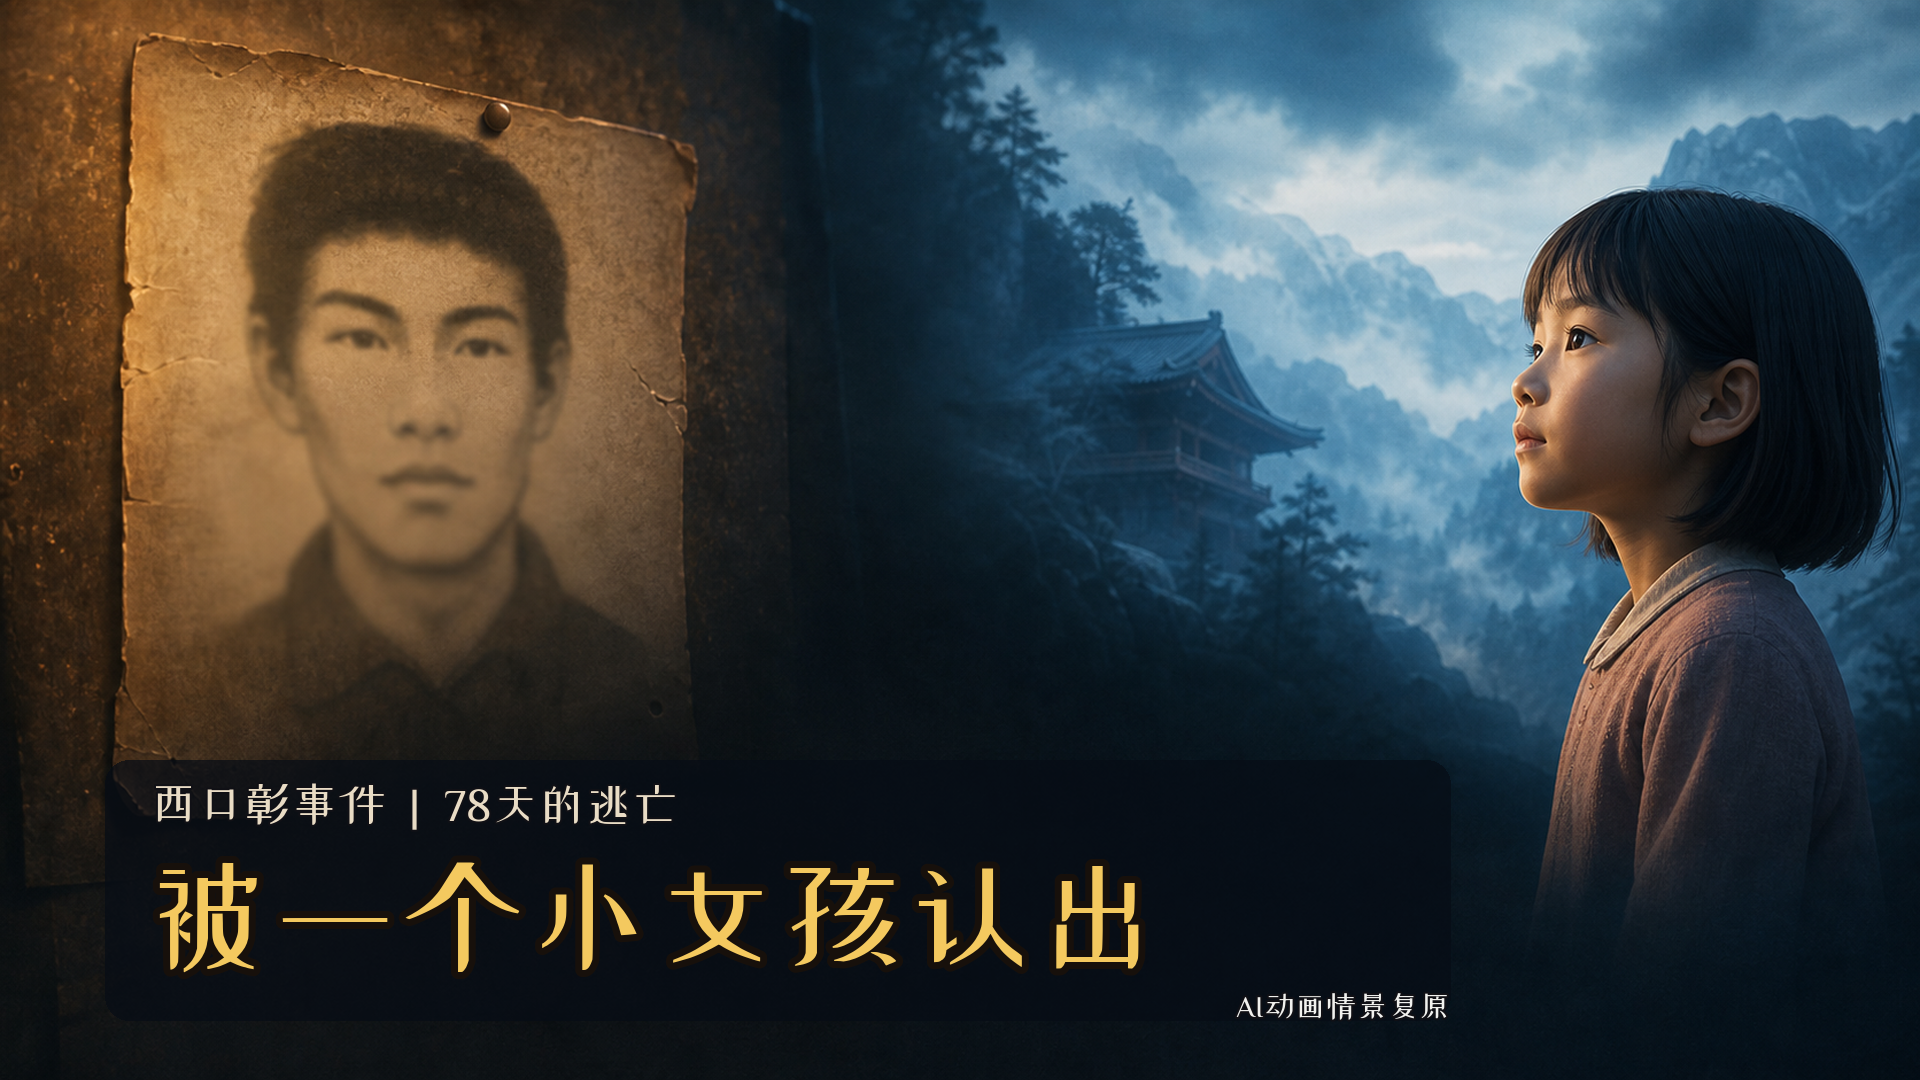
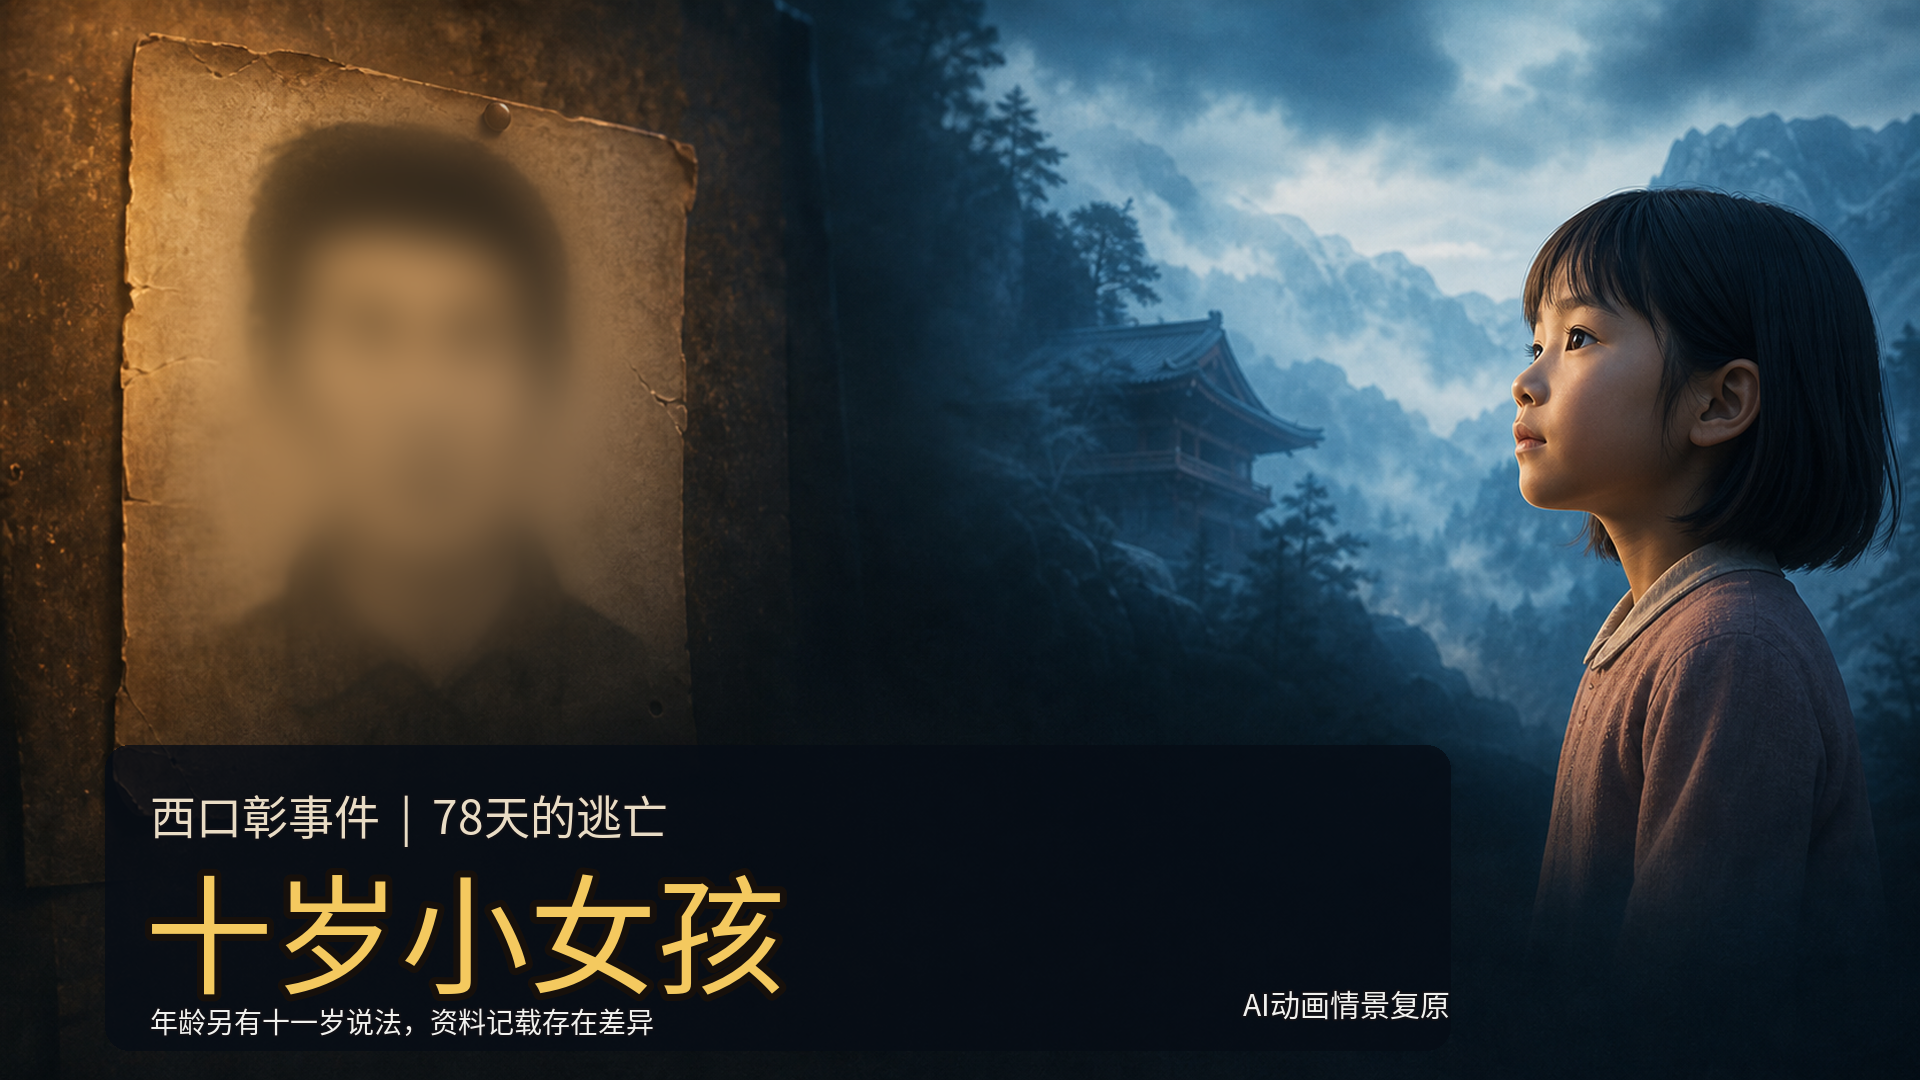
Match requested cover and title with age uncertainty note

diff --git a/production/nishiguchi1963/build_story.py b/production/nishiguchi1963/build_story.py
@@ -58,7 +58,7 @@ for i,(dur,narration,roles,prompt) in enumerate(rows):
 chapters=[]
 for j,(a,b,title) in enumerate(chap_ranges,1):
  chapters.append(dict(id=f'N{j:02}',title=title,start=shots[a]['start'],duration=sum(x['duration'] for x in shots[a:b]),shot_ids=[x['id'] for x in shots[a:b]],text=''.join(x['narration'] for x in shots[a:b])))
-project=dict(title='西口彰事件：78天的逃亡',film_name='西口彰事件_78天的逃亡_三分钟.mp4',target_duration=180,width=1920,height=1080,fps=24,model='agnes-video-2.5-flash',source_size='720P',branch='arena/eef99fcf-desktop-tutorial',style_prefix=STYLE,style_rumor_prefix=STYLE,negative_prompt=NEGATIVE,characters=ROLES,character_seeds={'nishiguchi':19631018,'priest':19640102,'girl':19640103,'family':19640104,'police':19631019,'local':19631020},shots=shots,chapters=chapters,narration_spec={'voice_id':'voice-00','max_speedup_factor':1.55},reference_images=[{'file':'reference/nishiguchi.png'},{'file':'reference/temple.png'},{'file':'reference/characters.png'}],presentation={'highlight_keywords':['七十八天','五个人','全国通缉','一双鞋','八十万日元','五人','女孩','一月三日','死刑'],'title':'他骗过了全日本，却被一个小学生一眼认出','hashtags':'#真实事件 #西口彰 #日本 #昭和 #悬疑 #3D动画 #复仇在我'})
+project=dict(title='西口彰事件：78天的逃亡',film_name='西口彰事件_78天的逃亡_三分钟.mp4',target_duration=180,width=1920,height=1080,fps=24,model='agnes-video-2.5-flash',source_size='720P',branch='arena/eef99fcf-desktop-tutorial',style_prefix=STYLE,style_rumor_prefix=STYLE,negative_prompt=NEGATIVE,characters=ROLES,character_seeds={'nishiguchi':19631018,'priest':19640102,'girl':19640103,'family':19640104,'police':19631019,'local':19631020},shots=shots,chapters=chapters,narration_spec={'voice_id':'voice-00','max_speedup_factor':1.55},reference_images=[{'file':'reference/nishiguchi.png'},{'file':'reference/temple.png'},{'file':'reference/characters.png'}],presentation={'highlight_keywords':['七十八天','五个人','全国通缉','一双鞋','八十万日元','五人','女孩','一月三日','死刑'],'title':'他骗过了全日本,却被一个十岁的小女孩一眼认出','hashtags':'#真实事件 #西口彰 #日本 #昭和 #悬疑 #3D动画 #复仇在我'})
 assert cursor==180 and len(shots)==30
 (HERE/'story.json').write_text(json.dumps(project,ensure_ascii=False,indent=2)+'\n',encoding='utf-8')
 lines=['# 西口彰事件：78天的逃亡','', 'AI动画情景复原，非真实影像。详细事实边界见 README。','', '| 镜头 | 时间 | 秒 | 旁白 | 画面提示 |','|---|---:|---:|---|---|']

diff --git a/production/nishiguchi1963/make_cover.py b/production/nishiguchi1963/make_cover.py
@@ -2,7 +2,7 @@
 """Typography over the project’s generated cover artwork; never a video substitute."""
 import argparse
 from pathlib import Path
-from PIL import Image, ImageDraw, ImageFont, ImageOps
+from PIL import Image, ImageDraw, ImageFilter, ImageFont, ImageOps
 
 HERE = Path(__file__).resolve().parent
 
@@ -10,17 +10,24 @@ def make_cover(background: Path, font_path: Path, output: Path):
     if not font_path.is_file():
         raise RuntimeError('A CJK font is required: pass --font (e.g. ZCOOL XiaoWei, SIL OFL).')
     image = ImageOps.fit(Image.open(background).convert('RGB'), (1920,1080), method=Image.Resampling.LANCZOS)
+    # The wanted portrait is a fictional illustration, intentionally defocused.
+    mask = Image.new('L', image.size, 0)
+    ImageDraw.Draw(mask).ellipse((210, 100, 625, 675), fill=255)
+    mask = mask.filter(ImageFilter.GaussianBlur(35))
+    image = Image.composite(image.filter(ImageFilter.GaussianBlur(22)), image, mask)
     overlay = Image.new('RGBA', image.size)
     d=ImageDraw.Draw(overlay)
     # Subtle ink band keeps the type legible without concealing either main face.
-    d.rounded_rectangle((105,760,1450,1020), radius=24, fill=(6,12,21,180))
+    d.rounded_rectangle((105,745,1450,1050), radius=24, fill=(6,12,21,200))
     image=Image.alpha_composite(image.convert('RGBA'),overlay)
     d=ImageDraw.Draw(image)
     small=ImageFont.truetype(str(font_path),46)
-    title=ImageFont.truetype(str(font_path),124)
+    title=ImageFont.truetype(str(font_path),128)
     foot=ImageFont.truetype(str(font_path),30)
+    note=ImageFont.truetype(str(font_path),28)
     d.text((150,780),'西口彰事件  |  78天的逃亡',font=small,fill='#e9dcc5',stroke_width=2,stroke_fill='#101015')
-    d.text((145,852),'被一个小女孩认出',font=title,fill='#f4c95f',stroke_width=7,stroke_fill='#17100b')
+    d.text((145,835),'十岁小女孩',font=title,fill='#f4c95f',stroke_width=7,stroke_fill='#17100b')
+    d.text((150,1000),'年龄另有十一岁说法，资料记载存在差异',font=note,fill='#f1f1ee',stroke_width=2,stroke_fill='#101015')
     d.text((1450,1020),'AI动画情景复原',font=foot,fill='#f1f1ee',anchor='rb',stroke_width=2,stroke_fill='#101015')
     output.parent.mkdir(parents=True,exist_ok=True)
     image.convert('RGB').save(output)

diff --git a/production/nishiguchi1963/README.md b/production/nishiguchi1963/README.md
@@ -4,8 +4,8 @@
 
 - 30 镜、180 秒、16:9 的分镜计划与逐镜旁白：`story.json`、`screenplay.md`。每条镜头 5–7 秒。
 - `reference/` 有男主、寺院、寺院人物和封面背景四张 AI 示意图。都不是现实人物照片或真实影像。生成采用文字模式，参考图**不会作为模型输入**，仅供人工审校；角色一致性尚未验证。
-- `audio/` 已生成 30/30 条旁白，S23、S24、S28 偏短的录音已重录；按去边缘静音实测分别占可用镜头窗口约107%、86%、95%，S23 合成时约加速 1.078 倍，另两条不加速。`audio/fit-measured.md` 是全部实测结果；仍需人工听审。已发布初剪尚未包含这些重录；正在安排重新合成。
-- `cover.png` 是 1920×1080 封面初版，`make_cover.py` 使用的 ZCOOL XiaoWei 字体为 SIL OFL 授权（字库单独存于忽略的工作目录）。画面人物为虚构风格化重构。
+- `audio/` 已生成 30/30 条旁白，S23、S24、S28 偏短的录音已重录；按去边缘静音实测分别占可用镜头窗口约107%、86%、95%，S23 合成时约加速 1.078 倍，另两条不加速。`audio/fit-measured.md` 是全部实测结果；仍需人工听审。最新初剪已包含这些重录，仍需听审。
+- `cover.png` 是 1920×1080 封面初版，`make_cover.py` 使用 Noto Sans CJK 字体（SIL OFL 授权，字库单独存于忽略的工作目录）。封面依照指定标题写“十岁小女孩”，并附“另有十一岁说法”的醒目脚注。画面人物为虚构风格化重构。
 - `generate.py` 沿用世田谷的 Agnes Video 2.5 Flash、61秒节流、源片校验和断点记录，仍只支持素材生成。`render.py`、`build_audio.py`、`fetch_sources.py` 是新适配的初剪工具：拒绝缺失旁白或未经哈希验证的视频；配乐与音效程序合成；字幕按语音能量窗口对齐；后半段按7帧叠化并叠加轻微程序化雾感，叠化后重排入镜片段避免首帧回放且保留镜头总帧数；该调整待重新合成和视觉审查。前半段目前为硬切、还未实现报纸翻页视觉转场；S06/S26 的指定源片已安排对背景伪字局部羽化柔焦，不修改其余区域。`qc.py` 已接入首剪工作流检查客观规格、字幕、黑帧、冻结与音量，内容审校不可自动替代。真实素材初剪已合成并通过客观质检；仍须完整视听和事实质检。
 - 30 镜均已生成解码，第三轮 S12/S13/S23/S28 重做和首剪已完成。首剪人工抽帧发现 S01 肖像不一致、S06/S26 伪文字、S24 风格不一致，第四轮已重做；其中 S06/S26 已作局部柔焦，S24 父女仍与邻镜风格不一致，已安排第五轮以背影与肢体语言重做。详见 `qa/review_round3.md` 和 `qa/review_round4.md`。由于生成接口限流，任务需自动冷却重试。源视频 Actions 工件保留七天，素材 URL 可能过期。
 - 首剪文件为 `交付/Nishiguchi_First_Cut.mp4`，报告与状态为 `交付/Nishiguchi_First_Cut_Report.json`、`交付/Nishiguchi_First_Cut_Status.json`；客观 QC 通过，但画面与声音尚未完整人工验收，不能当作最终成片。第四轮重做成功将自动重合成并更新该初剪。
@@ -25,7 +25,7 @@ python3 -m unittest production.tests.test_nishiguchi1963 -v
 
 1. 1963-10-18 福冈两人遇害，警方通缉西口；11月滨松旅馆经营者母女遇害；12月东京律师遇害，合计五名遇害者。80万日元为公开资料所述诈骗金额的近似值。
 2. 原稿称「12月下旬」拜访古川；多个资料记为 **1964-01-02**，1月3日被捕，已改正。
-3. 古川女儿年龄资料出现10岁和11岁两种说法，本片写「小学五年级女孩」，避免争议。她先认出通缉照片，家人进一步核实并通报；不将通报功劳单独归给警方或某一名家人。初期父亲不相信有报道支持。
+3. 古川女儿年龄资料出现10岁和11岁两种说法，旁白写「小学五年级女孩」；封面按用户要求写「十岁小女孩」并注明另有十一岁说法，发布标题采用用户原文时发布说明须同时注明年龄记载存在分歧。她先认出通缉照片，家人进一步核实并通报；不将通报功劳单独归给警方或某一名家人。初期父亲不相信有报道支持。
 4. 10月18日至次年1月3日**相隔77天，首尾两日均计入为78天**；公开报道亦有77天的写法。
 5. 末尾广传的「十二万警察不如少女的眼睛」数量及发言人来源有歧异（也有13万人及警察官员的版本），为避免误引，不直接归为警察厅长官原话。
 6. 空卡车、地上鞋子与灯光熄灭等是安全、非血腥的**象征性重构**，并非宣称镜头中物件是当时警方确认的证物或具体发生的情节。避免将受害者与幼童置于危险画面。
@@ -39,8 +39,8 @@ python3 -m unittest production.tests.test_nishiguchi1963 -v
 
 ## 发布文案（待片子审核后使用）
 
-标题：他骗过了全日本，却被一个小学生一眼认出
+标题：他骗过了全日本,却被一个十岁的小女孩一眼认出
 
 话题：#真实事件 #西口彰 #日本 #昭和 #悬疑 #3D动画 #复仇在我
 
-说明：本片依据公开资料制作，画面均为AI动画情景复原，不代表真实人物相貌或历史影像。谨记五位遇害者。
+说明：女孩的年龄有十岁和十一岁两种报道，具体记载存在差异。本片依据公开资料制作，画面均为AI动画情景复原，不代表真实人物相貌或历史影像。谨记五位遇害者。
